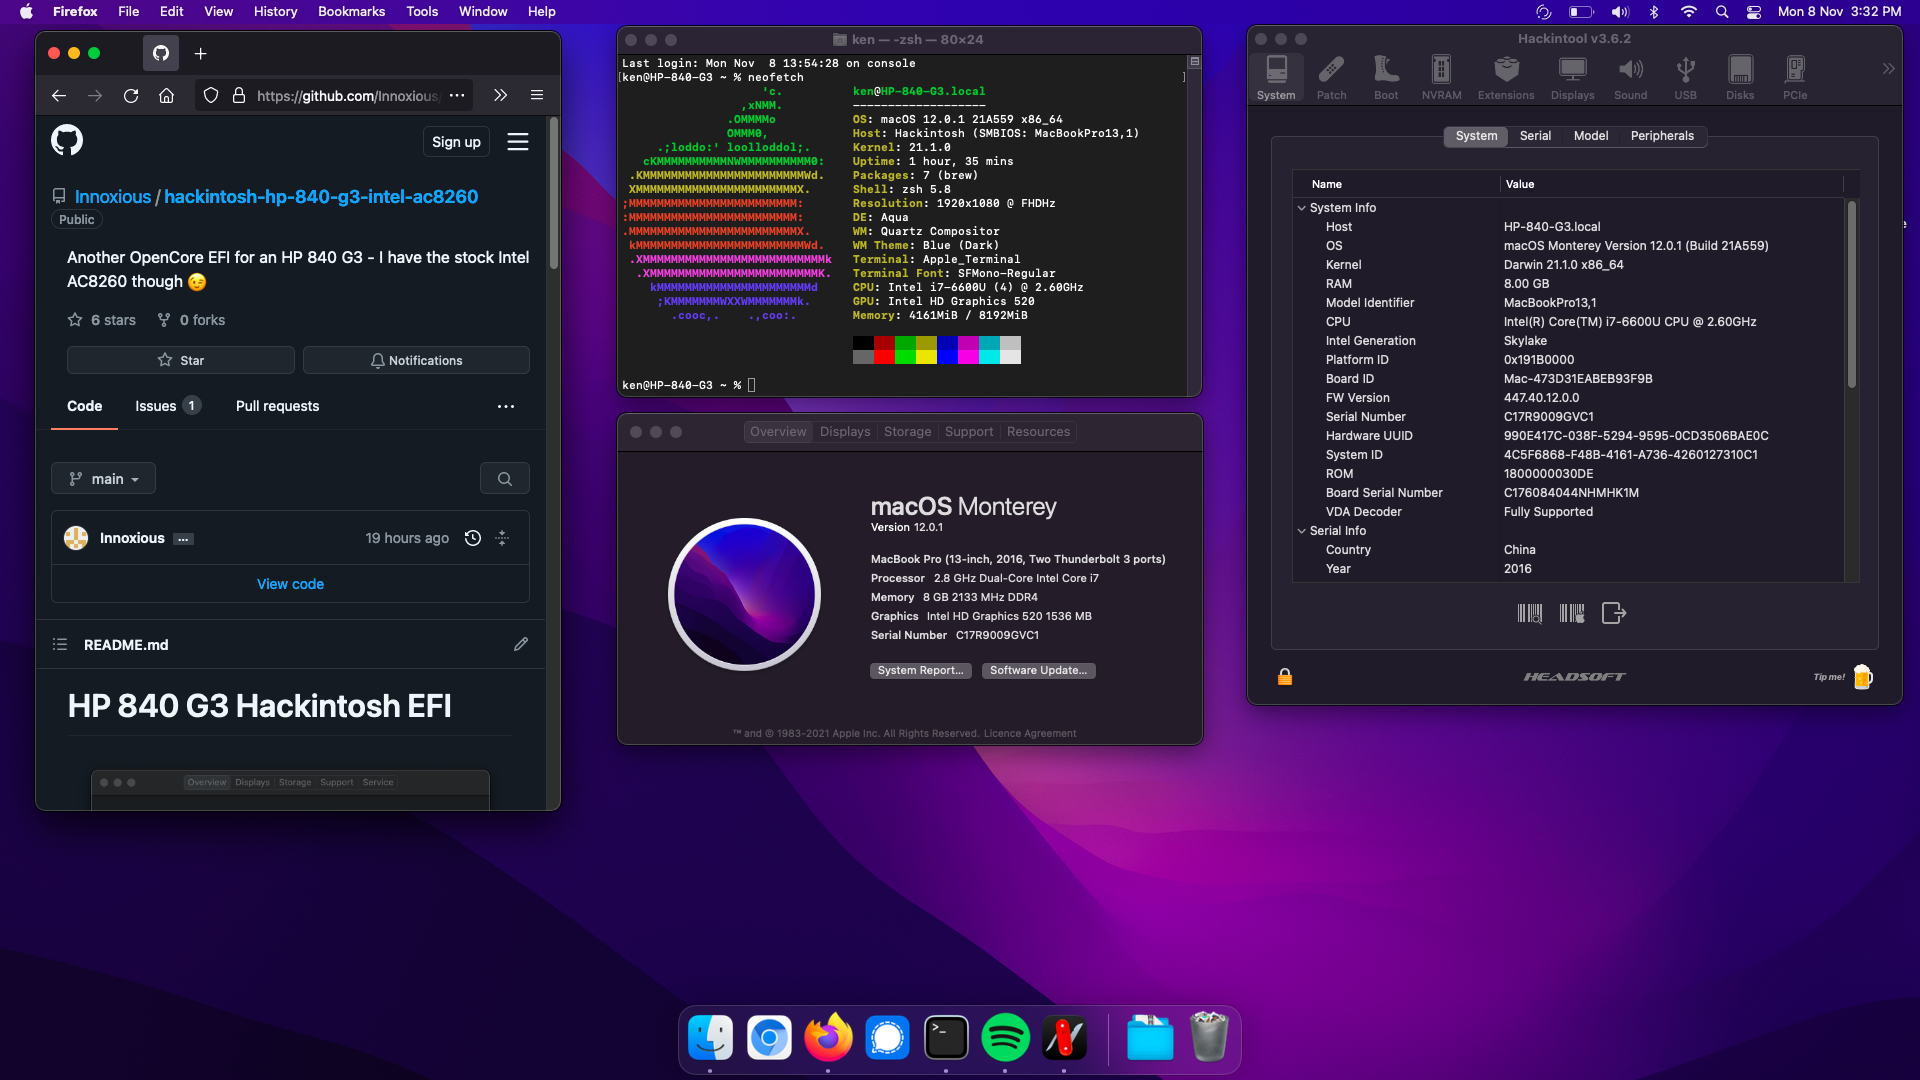
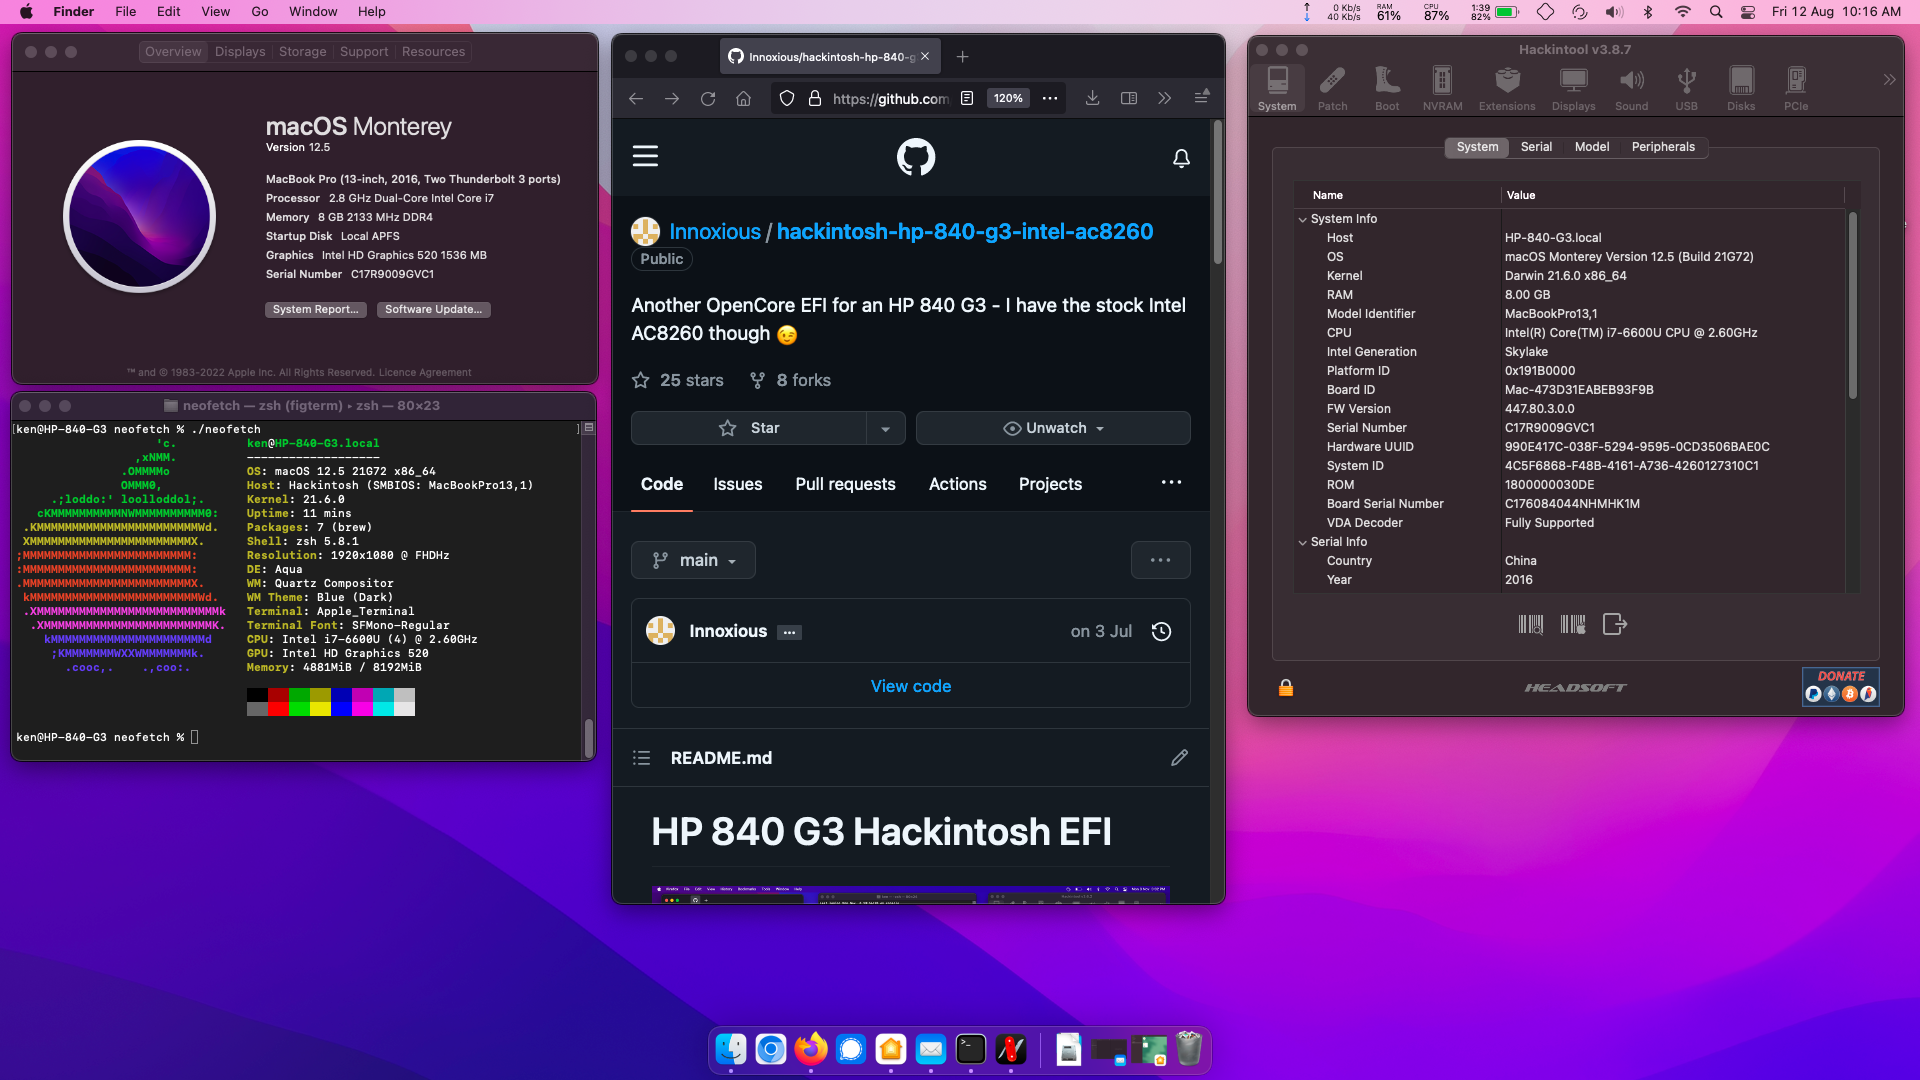
Update to macOS Monterey 12.5

diff --git a/README.md b/README.md
@@ -1,4 +1,4 @@
-# HP 840 G3 Hackintosh EFI
+# HP 840 G3 Hackintosh EFI - macOS Monterey 12.5
 
 ![Screenshot - About this Mac](/showcase.png)
 
@@ -16,7 +16,7 @@
 - i7 6600U (Intel 6th Gen - Skylake)
 - Intel AC8260
 - Elan Tech touchpad
-- macOS Monterey 12.0.1
+- macOS Monterey 12.5
 - Open Core 0.8.1
 
 **Things that work (non-exhaustive)**:
@@ -33,6 +33,7 @@
 - USB-C port
 - M.2 NVMe SSD
 - SD Card reader
+- Dual boot with Windows
 
 **Things that do not work (also non-exhaustive)**:
 
